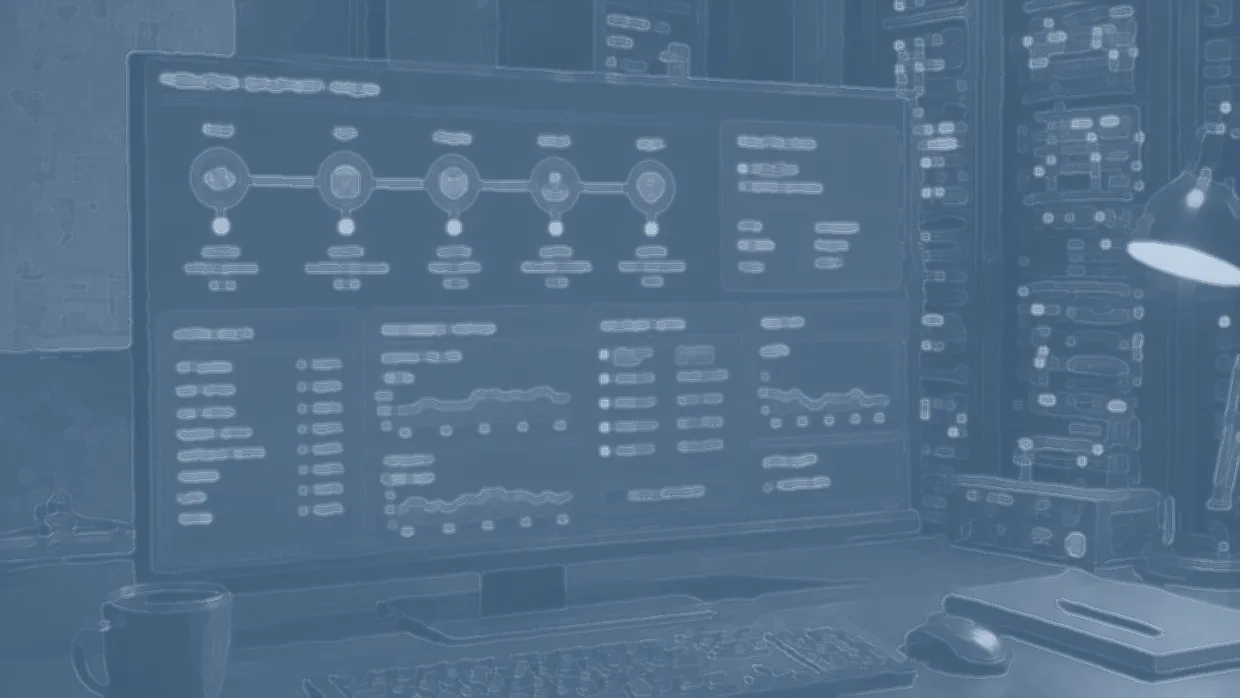
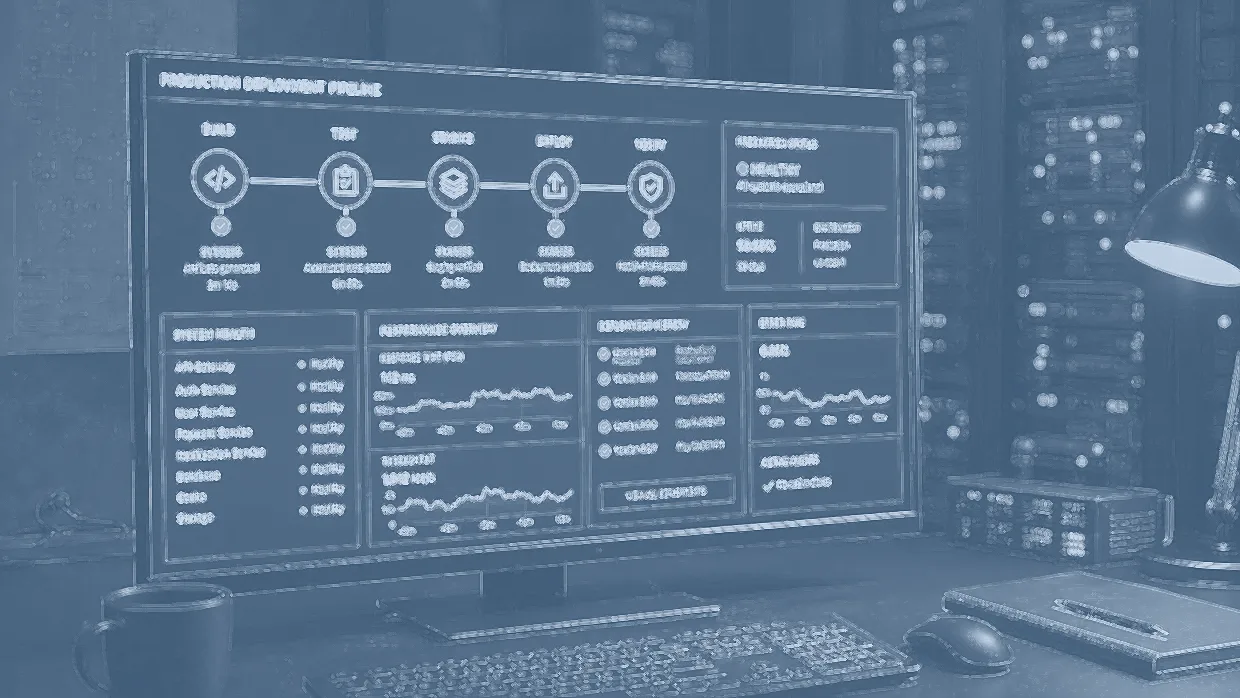
Sharpen the plates instead of smoothing them
-kuwahara 4 was the blur. It went in last revision to stop texture becoming
line, and it did that and it also smeared every flat region into its neighbour
-- kuwahara is a painterly filter -- so the plates came out looking like
out-of-focus photographs.

There is no smoothing step at all now. The dodge sketch is still screened over
the tone, which is what carries the forms at 132px, and then the result is
unsharped. Every edge that survives keeps a hard boundary.

Two other routes to the same end were built and looked at, and both are worse.
-level 0%,45%, crushing weak edges to white so only the strong ones survive,
leaves the plate nearly blank. -posterize into flat tonal bands dithers at
every boundary, so a clean graphic idea comes out speckled with dots. Detail
that cannot survive the downscale is better lost to the resize than smeared
before it.

QA: four viewports, all exit 0, pinned scrollHeight 7911 unchanged. Contact
sheet read: every heading once and in order, no black stretch, plates sharp.

Claude-Session: https://claude.ai/code/session_01XfAX2YSArtGBqSyEfKFt98

diff --git a/CLAUDE.md b/CLAUDE.md
@@ -1260,12 +1260,21 @@ re-run here.
   screens. Every crumb of texture becomes a stroke, and a drawing of clutter at
   132px is clutter.
 
-  So `-kuwahara` smooths the texture out first while real edges survive it, and
-  the dodge sketch is `-compose screen`ed back OVER that tone rather than
+  So the dodge sketch is `-compose screen`ed back OVER the tone rather than
   replacing it: the notebook reads as a light mass against a dark desk, which
-  is what makes it legible small, and the strokes draw its edges. `-posterize`
-  was tried on the tone and rejected — 4–5 levels blows the light masses to
-  slabs and loses the detail the screen had just bought.
+  is what makes it legible small, and the strokes draw its edges. Then it is
+  **`-unsharp`ed**, because the thing that kept being wrong was softness.
+
+  **Nothing is smoothed, and that is the correction.** `-kuwahara 4` shipped
+  here for one revision to stop texture becoming line. It worked, and it was
+  the blur: kuwahara is a painterly filter that smears flat regions into each
+  other, and the plates came out looking like out-of-focus photographs. Two
+  other routes to the same end are worse and both were built and looked at —
+  `-level 0%,45%`, crushing weak edges to white so only strong ones survive,
+  leaves the plate nearly blank; `-posterize` into flat tonal bands **dithers
+  at every boundary**, so a clean graphic idea comes out speckled with dots.
+  Detail that cannot survive the downscale is better lost to the resize than
+  smeared before it.
 
   `GROUND #2c4a68` (0.33) against a 0.204 page; `HIGH #c8d8ea` (0.80), which
   stays UNDER the book's silver ink at 0.895 — at 0.96 the plates were
